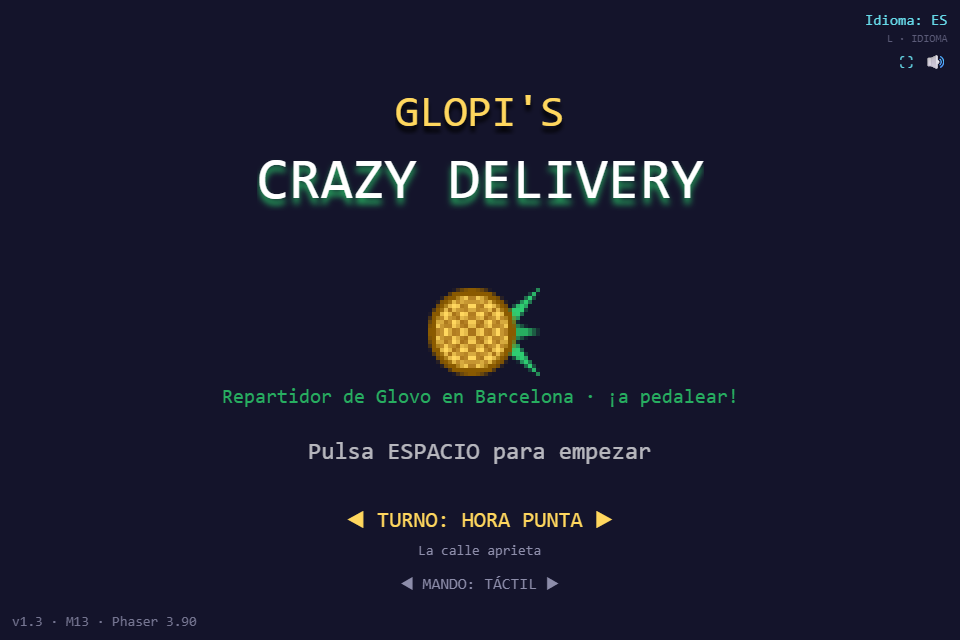
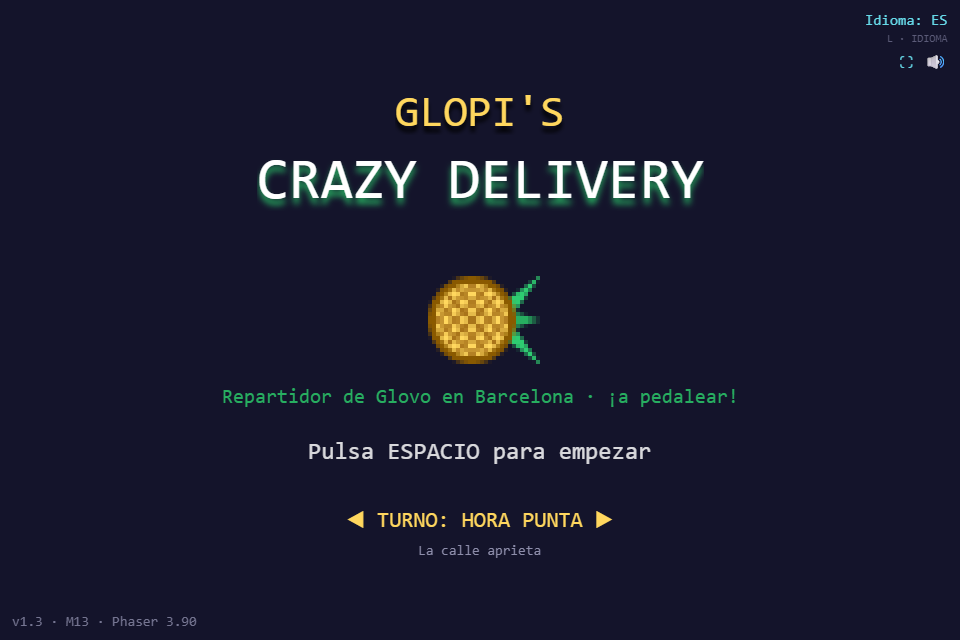
deploy: v1.3.1 — tilt steering retired after real-device playtest, landing 'Rebuje' bullet -> 'Rebufo', promo splice

Changed region(s): [[0.4375, 0.4062, 0.5625, 0.5938], [0.3125, 0.6875, 0.6875, 0.7188], [0.4062, 0.9062, 0.5938, 0.9375]]

diff --git a/juego/src/scenes/MenuScene.js b/juego/src/scenes/MenuScene.js
@@ -3,7 +3,7 @@ import * as Phaser from 'phaser';
 import { COLORS, GAME_WIDTH, GAME_HEIGHT, PLAYER } from '../config.js';
 import { DIFFICULTIES, nextDiffKey, storedKey, storeKey } from '../data/difficulties.js';
 import { loadCareer, rankOf } from '../data/career.js';
-import { applySoundMute, isMuted, isTiltOn, setTiltOn, setMuted, toggleFullscreen, enterMobileFullscreen } from '../data/settings.js';
+import { applySoundMute, isMuted, setMuted, toggleFullscreen, enterMobileFullscreen } from '../data/settings.js';
 import { cycleLang, getLang, t } from '../i18n.js';
 
 /**
@@ -134,15 +134,6 @@ export default class MenuScene extends Phaser.Scene {
       })
       .setOrigin(1, 0);
 
-    // ---- M13.3 tilt steering row: tap or the T key toggles device lean ----
-    this.tiltText = this.add
-      .text(cx, 584, '', {
-        fontFamily: 'monospace',
-        fontSize: '16px',
-        color: '#66d9e8',
-      })
-      .setOrigin(0.5);
-
     const refreshMenuTexts = () => {
       const tier = DIFFICULTIES[this.diffKey];
       this.subtitle.setText(t('menu.subtitle'));
@@ -153,10 +144,6 @@ export default class MenuScene extends Phaser.Scene {
       this.diffDesc.setText(t(tier.descKey));
       this.langText.setText(t('menu.lang', { lang: getLang().toUpperCase() }));
       this.muteText.setText(isMuted() ? '🔇' : '🔊');
-      // M13.3 tilt row reflects the stored preference (cyan = engaged)
-      this.tiltText
-        .setText(t('menu.tilt', { mode: isTiltOn() ? t('ui.tiltTilt') : t('ui.tiltTouch') }))
-        .setColor(isTiltOn() ? '#66d9e8' : '#8d8daa');
       const career = loadCareer();
       this.rankText
         .setText(career && career.shifts > 0 ? t('menu.rank', { rank: t(rankOf(career.deliveries).key), d: career.deliveries }) : '');
@@ -172,10 +159,6 @@ export default class MenuScene extends Phaser.Scene {
     };
     const cycleLangUi = () => {
       cycleLang();
-      refreshMenuTexts();
-    };
-    const cycleTilt = () => {
-      setTiltOn(!isTiltOn());
       refreshMenuTexts();
     };
     refreshMenuTexts();
@@ -204,16 +187,9 @@ export default class MenuScene extends Phaser.Scene {
       event.stopPropagation();
       pointerCycle(() => toggleFullscreen(this.game));
     });
-    // M13.3: the tilt row shares the click-gate so a tap on it never starts
-    this.tiltText.setInteractive({ useHandCursor: true });
-    this.tiltText.on('pointerdown', (_pointer, _x, _y, event) => {
-      event.stopPropagation();
-      pointerCycle(cycleTilt);
-    });
     this.input.keyboard.on('keydown-LEFT', cycleDiff);
     this.input.keyboard.on('keydown-RIGHT', cycleDiff);
     this.input.keyboard.on('keydown-L', cycleLangUi);
-    this.input.keyboard.on('keydown-T', cycleTilt);
 
     const launch = () => {
       // M13.3: phones start fullscreen-locked to landscape — this call must
@@ -245,7 +221,6 @@ export default class MenuScene extends Phaser.Scene {
       this.prompt.x = cxw;
       this.diffText.x = cxw;
       this.diffDesc.x = cxw;
-      this.tiltText.x = cxw;
       this.langText.x = w - 12;
       this.langHint.x = w - 12;
       this.muteText.x = w - 12;

diff --git a/juego/src/scenes/GameScene.js b/juego/src/scenes/GameScene.js
@@ -2,7 +2,7 @@ import * as Phaser from 'phaser';
 
 import {
   GAME_WIDTH, GAME_HEIGHT, PLAYER, VEHICLE, CAMERA, IMPACT, DEBUG_KEY, ORDER, ZONE,
-  TRAFFIC, PEDS, SCORE, JUICE, MUSIC, GAMEPAD, WORLD, DRAFT, TILT,
+  TRAFFIC, PEDS, SCORE, JUICE, MUSIC, GAMEPAD, WORLD, DRAFT,
 } from '../config.js';
 import { OrderSystem } from '../systems/OrderSystem.js';
 import { TrafficSystem } from '../systems/TrafficSystem.js';
@@ -11,8 +11,6 @@ import { applyDifficulty, resolveDifficulty } from '../data/difficulties.js';
 import { t } from '../i18n.js';
 import { ScoreSystem } from '../systems/ScoreSystem.js';
 import { TouchControls } from '../systems/TouchControls.js';
-import { TiltSteer } from '../systems/TiltSteer.js';
-import { isTiltOn, isTouchLike } from '../data/settings.js';
 import { RESTAURANTS, CUSTOMERS } from '../data/places.js';
 
 /** Middle of La Rambla (cols 32-33), heading north. */
@@ -141,15 +139,6 @@ export default class GameScene extends Phaser.Scene {
     // that miss the config.
     const inMgr = this.input.manager;
     if (inMgr.pointers.length < 4) this.input.addPointer(4 - inMgr.pointers.length);
-    // M13.3 tilt steering: lean the phone while no zone is held. Non-touch
-    // devices never enable it, so desktop play is untouched.
-    this.tilt = new TiltSteer(TILT);
-    this.onOrient = (e) => this.tilt.update(e);
-    if (isTiltOn() && isTouchLike() && typeof DeviceOrientationEvent !== 'undefined') {
-      this.tilt.enabled = true;
-      window.addEventListener('deviceorientation', this.onOrient);
-    }
-
     this.input.keyboard.once('keydown-ESC', () => {
       this.scene.stop('HUD'); // overlay scene (M3.3); no-op if not running
       this.scene.stop('Results'); // in case ESC lands on the results card
@@ -712,11 +701,10 @@ export default class GameScene extends Phaser.Scene {
     const bellRising = !!gp && gp.bell && !this.padBellWas; // pad trigger edge
     this.padBellWas = !!gp && gp.bell;
 
-    // M13.3: keyboard wins when pressed; otherwise the pad, then the touch
-    // zones, and device tilt fills in when no zone is held (a finger on
-    // ◀ ▶ always overrides the lean)
+    // M8.3 merge order: keyboard wins when pressed; otherwise the pad, then
+    // the touch zones (a finger on ◀ ▶ always overrides the pad)
     const steerKeys = (D.isDown || RIGHT.isDown ? 1 : 0) - (A.isDown || LEFT.isDown ? 1 : 0);
-    const touchSteer = this.touch.steer || (this.tilt.enabled ? this.tilt.steer : 0);
+    const touchSteer = this.touch.steer;
     const steer = blockInput ? 0 : (steerKeys !== 0 ? steerKeys : gp ? gp.steer : touchSteer);
     const pedaling = !blockInput && ((W.isDown || UP.isDown) || (gp && gp.pedal) || this.touch.pedal);
     const braking = !blockInput && ((S.isDown || DOWN.isDown) || (gp && gp.brake) || this.touch.brake);

diff --git a/juego/src/i18n.js b/juego/src/i18n.js
@@ -16,9 +16,6 @@ const DICTIONARIES = {
     'menu.subtitle': 'Repartidor de Glovo en Barcelona · ¡a pedalear!',
     'menu.prompt': 'Pulsa ESPACIO para empezar',
     'menu.turno': 'TURNO:',
-    'menu.tilt': '◀ MANDO: {mode} ▶',
-    'ui.tiltTouch': 'TÁCTIL',
-    'ui.tiltTilt': '+ INCLINACIÓN',
     'menu.lang': 'Idioma: {lang}',
     'menu.langHint': 'L · IDIOMA',
     'menu.rank': 'RANGO: {rank} · {d} entregas',
@@ -89,9 +86,6 @@ const DICTIONARIES = {
     'menu.subtitle': 'Repartidor de Glovo a Barcelona · a pedalar!',
     'menu.prompt': 'Prem ESPAI per començar',
     'menu.turno': 'TORN:',
-    'menu.tilt': '◀ CONTROLS: {mode} ▶',
-    'ui.tiltTouch': 'TÀCTIL',
-    'ui.tiltTilt': '+ INCLINACIÓ',
     'menu.lang': 'Idioma: {lang}',
     'menu.langHint': 'L · IDIOMA',
     'menu.rank': 'RANG: {rank} · {d} comandes',
@@ -162,9 +156,6 @@ const DICTIONARIES = {
     'menu.subtitle': 'Glovo courier in Barcelona · pedal to the metal!',
     'menu.prompt': 'Press SPACE to start',
     'menu.turno': 'SHIFT:',
-    'menu.tilt': '◀ CONTROLS: {mode} ▶',
-    'ui.tiltTouch': 'TOUCH',
-    'ui.tiltTilt': '+ TILT',
     'menu.lang': 'Language: {lang}',
     'menu.langHint': 'L · LANGUAGE',
     'menu.rank': 'RANK: {rank} · {d} deliveries',

diff --git a/index.html b/index.html
@@ -99,7 +99,7 @@
     <img class="hero" src="promo/gameplay.gif" alt="Vídeo gameplay de Glopi's Crazy Delivery" />
     <div class="cta-row">
       <a class="cta" href="juego/">▶ JUGAR AHORA</a>
-      <p class="cta-note">ES / CA / EN · Chill, Hora punta o Monzón de pedales · teclado, mando, táctil o inclinando el móvil</p>
+      <p class="cta-note">ES / CA / EN · Chill, Hora punta o Monzón de pedales · teclado, mando o táctil</p>
     </div>
 
     <h2>Capturas</h2>
@@ -130,7 +130,7 @@
     <ul>
       <li>Arcade estilo <i>Crazy Taxi</i>: entregas contrarreloj pedaleando por una Barcelona 2048×1536 con Sagrada Família, Glòries y la Rambla.</li>
       <li>Cola por calles: coches y patinetes, casi-accidentes misericordiosos, campanilla (<b>MAYÚS</b>) y caos garantizado.</li>
-      <li><b>Rebuje</b>: engánchate a la estela de un coche — el medidor se llena y el turbo te lanza por la avenida.</li>
+      <li><b>Rebufo</b>: engánchate a la estela de un coche — el medidor se llena y el turbo te lanza por la avenida.</li>
       <li>Tiendas y clientes bilingües (ES/CA): desde <i>bocata mixto</i> hasta <i>fideuà a la mar</i>.</li>
       <li>Javascript + Phaser 3.90 vía import map — cero dependencias, cero build.</li>
     </ul>

diff --git a/juego/src/data/settings.js b/juego/src/data/settings.js
@@ -7,7 +7,6 @@
  * is Phaser's GlobalSoundManager.mute (set at boot + on every toggle).
  */
 const MUTE_KEY = 'glopi-mute';
-const TILT_KEY = 'glopi-tilt';
 
 export function isMuted() {
   try {
@@ -46,30 +45,15 @@ export function toggleFullscreen(game) {
   }
 }
 
-// ---- M13.3 tilt steering preference ("glopi-tilt") ------------------------
+// ---- M8.3 touch/fullscreen world check ------------------------------------
 
-/** Coarse pointer = phones/tablets — the worlds the touch UI and tilt cover. */
+/** Coarse pointer = phones/tablets — the touch UI + fullscreen-lock world. */
 export function isTouchLike() {
   try {
     return !!(window.matchMedia && window.matchMedia('(pointer: coarse)').matches);
   } catch (_e) {
     return false;
   }
-}
-
-/** Stored tilt pref; unset defaults to ON on touch devices. */
-export function isTiltOn() {
-  try {
-    const v = localStorage.getItem(TILT_KEY);
-    if (v != null) return v === '1';
-  } catch (_e) { /* storage unavailable */ }
-  return isTouchLike();
-}
-
-export function setTiltOn(on) {
-  try {
-    localStorage.setItem(TILT_KEY, on ? '1' : '0');
-  } catch (_e) { /* storage unavailable */ }
 }
 
 

diff --git a/juego/src/config.js b/juego/src/config.js
@@ -59,16 +59,6 @@ export const IMPACT = {
 export const DEBUG_KEY = 'H';
 
 /**
- * M13.3 tilt steering on phones: lean the device instead of the ◀ ▶ hold.
- * Degrees of lean past the captured rest angle that engage/disengage a side
- * (enter > exit gives hysteresis so the steer doesn't flicker).
- */
-export const TILT = {
-  enter: 14,
-  exit: 7,
-};
-
-/**
  * Orders core loop (M3/M4). Zones are radius checks against Glopi's center.
  * Pickup AND delivery both happen automatically when Glopi comes fully to a
  * stop inside the zone — no button. All time units are seconds, fares in €.
